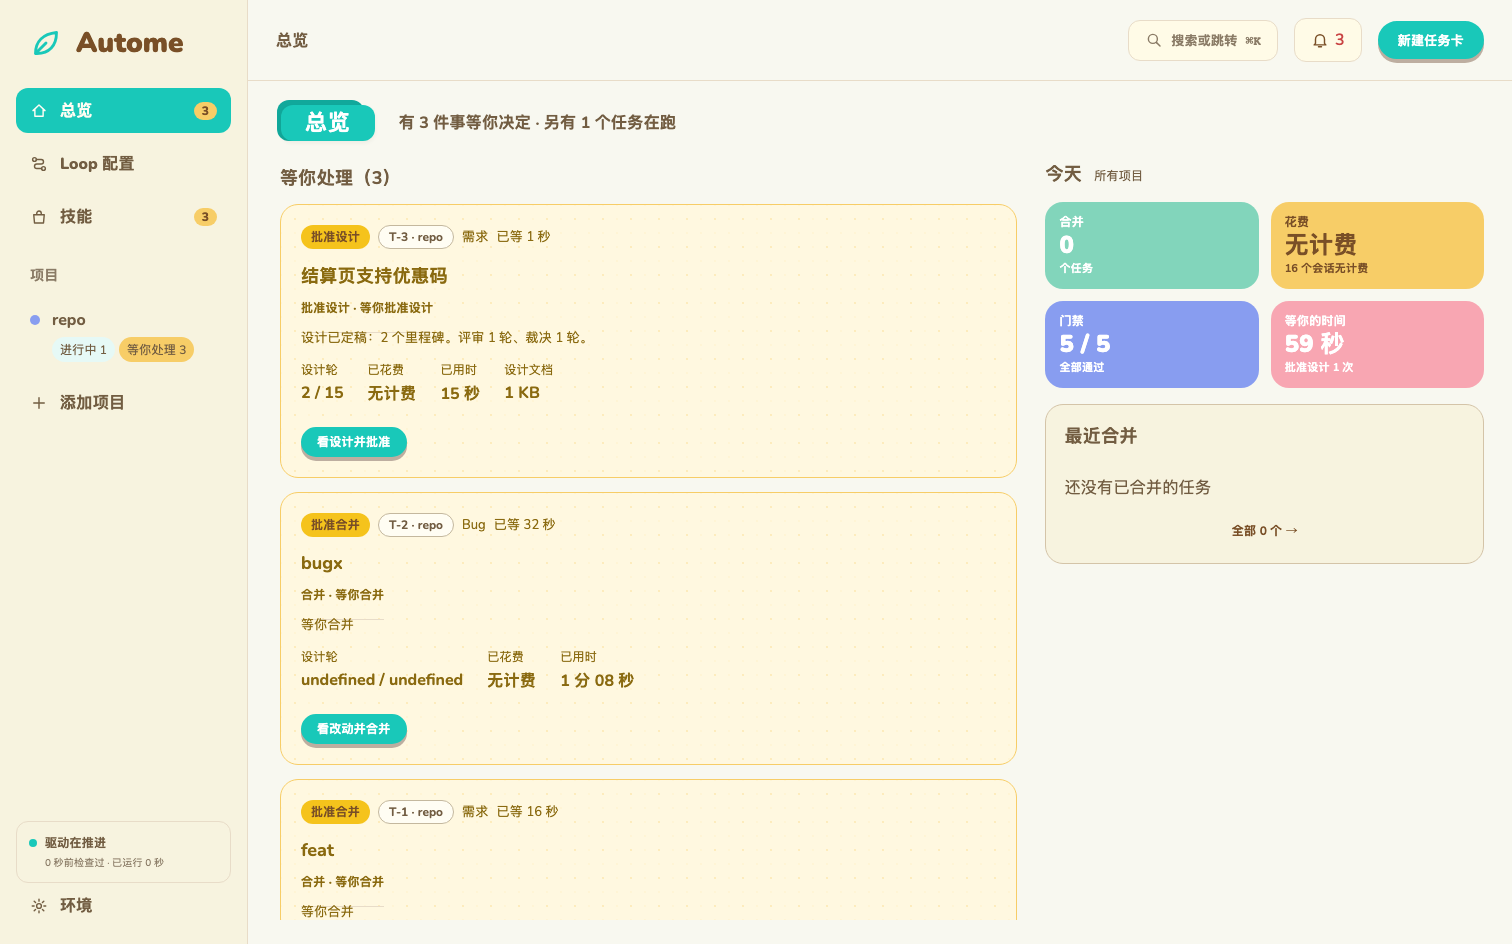
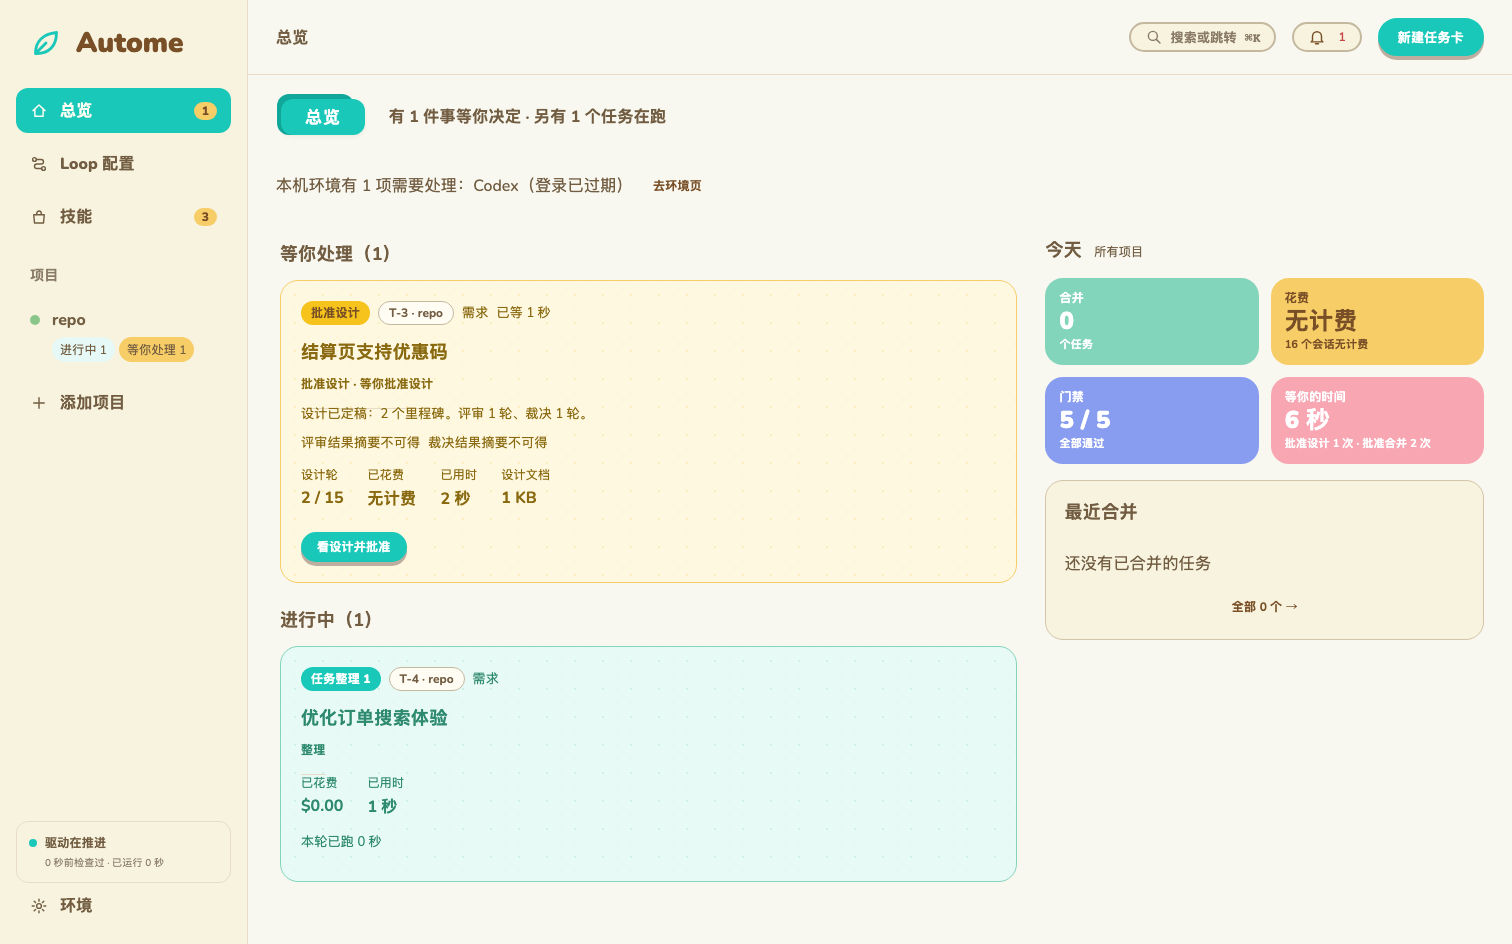
docs(readme): 用演示实例重拍五张面板截图，测试不再依赖任务附件
- docs/images 五张图由 apps/web/scripts/screenshots.ts 在临时实例、临时账本和
  演示任务上重新生成（T-123、T-124 之后的界面），拍完实例与临时目录已删除。
- test/screenshot-shots.test.ts 原先读 docs/面板观感收尾/attachments 下的截图名，
  附件删除后改为写死十个名称。

diff --git a/apps/web/test/screenshot-shots.test.ts b/apps/web/test/screenshot-shots.test.ts
@@ -1,4 +1,4 @@
-import { readFileSync, readdirSync } from 'node:fs';
+import { readFileSync } from 'node:fs';
 import { resolve } from 'node:path';
 import { expect, test } from 'vitest';
 import { parseScreenshotArgs, screenshotShots } from '../scripts/screenshot-shots.ts';
@@ -9,9 +9,10 @@ test('默认集合恰为 README 五张且默认参数不变', () => {
   expect(parseScreenshotArgs([])).toEqual({ set: 'readme', out: 'docs/images' });
   expect(screenshotShots('readme', 'p', 't').map(s => `${s.name}.png`).sort()).toEqual(['dashboard.png', 'loop.png', 'project.png', 'skills.png', 'task.png']);
 });
-test('all 十张与改前附件一一对应且没有重复', () => {
+test('all 十张名称固定且没有重复', () => {
   const names = screenshotShots('all', 'p', 't').map(s => `${s.name}.png`).sort();
-  expect(names).toEqual(readdirSync(resolve(root, 'docs/面板观感收尾/attachments')).filter(n => n.endsWith('.png')).sort());
+  // 截图不进仓库：对照图的名称写在这里，不再读任务目录下的附件。
+  expect(names).toEqual(['env.png', 'loop-bottom.png', 'loop-drawer.png', 'loop-projinfo.png', 'loop.png', 'project-new.png', 'project.png', 'skills-click.png', 'skills.png', 'task.png']);
   expect(new Set(names).size).toBe(10);
 });
 test('两个抽屉通过稳定 testid 与对应页面打开', () => {
